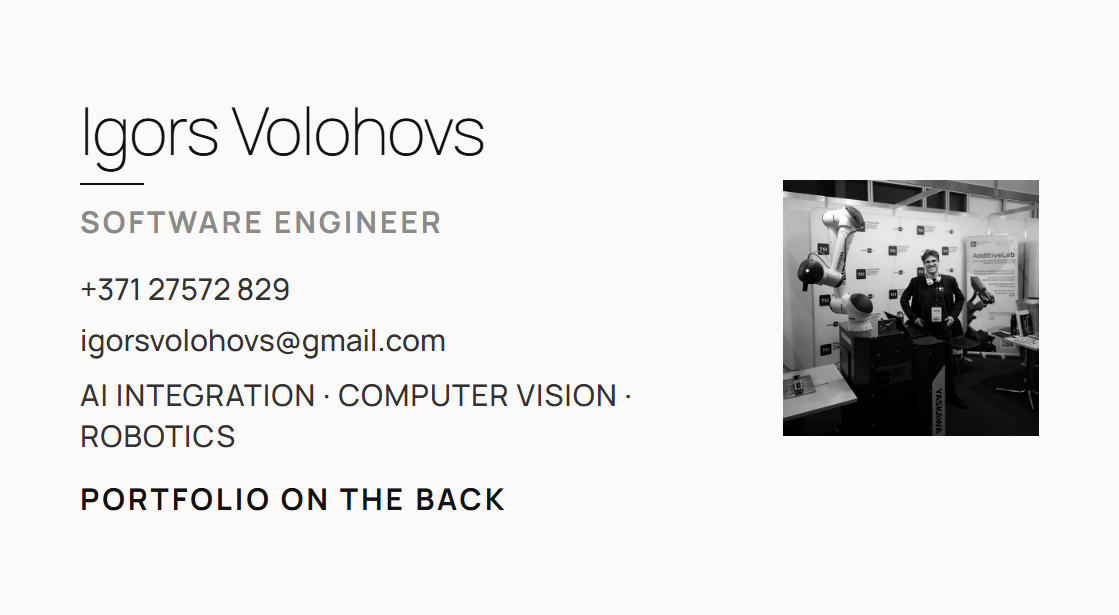
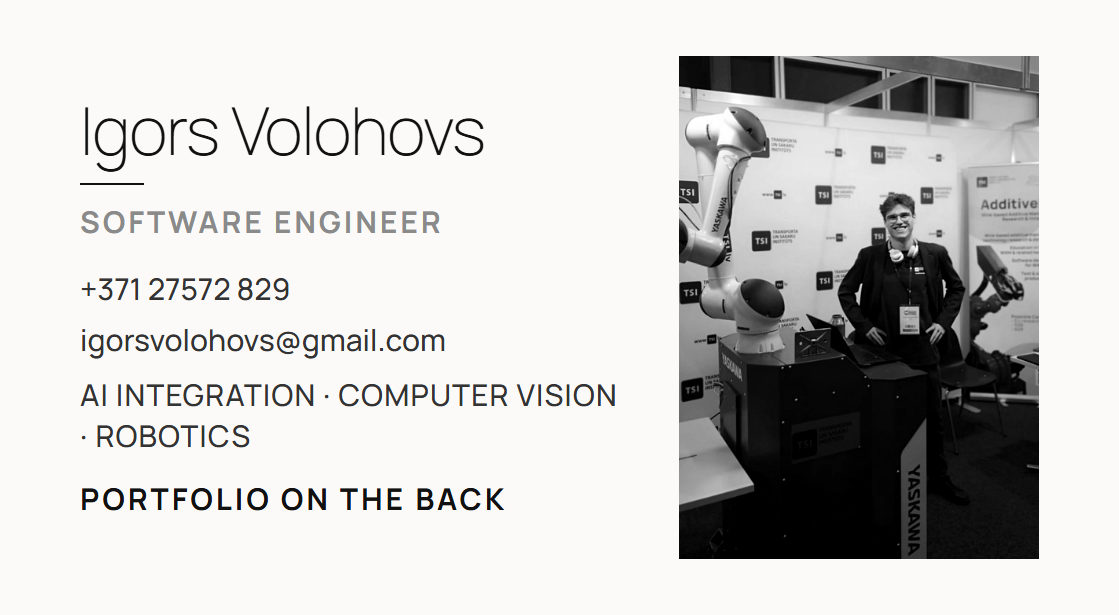
Enlarge the front-side photo across all 10 experiment variants
Igor's feedback: the photo read as a small avatar/icon (~220-256px) in
every variant instead of a full design element comparable to the panel
or QR block it replaced. Grew it meaningfully in each template - up to
340px, or a full-height 360x503 portrait crop in Minimal - which required
real layout adjustments rather than a single CSS bump: narrower text
columns (Minimal, Neon gradient), a smaller name to free vertical room
(Big type), tighter card padding (Robotics), and a narrower card gap
(QR centerpiece). All crops stay at or under the source photo's native
640x640 resolution, so nothing is upscaled beyond what it can support.

Two overlap bugs turned up during the enlargement and are fixed here too:
- Accent color: the tag row had no max-width, so growing the photo panel
  didn't shrink the text's wrap boundary - "Robotics" rendered half-hidden
  under the photo. Capped the tag row width so it wraps before reaching it.
- Blueprint: the bigger photo's "PHOTO-01" caption collided with the
  titleblock's "NOTES" header. Trimmed the photo slightly and raised it
  to restore clearance above and below.

Re-rendered all 10 fronts, visually confirmed no remaining text
overlap/clipping, and re-verified all 10 backs still decode to
https://igorsvolohovs.github.io/ (untouched by this change).

Changed region(s): [[0.6077, 0.0927, 0.9419, 0.9268], [0.0608, 0.6797, 0.2431, 0.7415]]

diff --git a/experiments/templates/template_07_accent_color.html b/experiments/templates/template_07_accent_color.html
@@ -40,19 +40,19 @@
     }
     .contacts { margin-top: 30px; position: relative; z-index: 2; }
     .contacts div { font-size: 30px; color: #333; margin-bottom: 9px; font-weight: 400; }
-    .tags { margin-top: 22px; display: flex; gap: 22px; position: relative; z-index: 2; flex-wrap: wrap; }
+    .tags { margin-top: 22px; display: flex; gap: 18px; position: relative; z-index: 2; flex-wrap: wrap; max-width: 600px; }
     .tags span { font-size: 30px; font-weight: 700; color: #ff4d1c; text-transform: uppercase; letter-spacing: 1px; }
     .cta { margin-top: 20px; font-size: 30px; font-weight: 700; letter-spacing: 1px; color: #111; text-transform: uppercase; position: relative; z-index: 2; }
     .photo-wrap {
         position: absolute;
-        right: 60px;
-        bottom: 54px;
+        right: 50px;
+        bottom: 44px;
         z-index: 3;
         background: #fff;
-        padding: 8px;
+        padding: 10px;
         border: 3px solid #111;
     }
-    .photo-wrap img { width: 220px; height: 220px; object-fit: cover; display: block; }
+    .photo-wrap img { width: 300px; height: 300px; object-fit: cover; display: block; }
 </style>
 </head>
 <body>

diff --git a/experiments/templates/template_09_robotics.html b/experiments/templates/template_09_robotics.html
@@ -13,7 +13,7 @@
         background: #081018;
         position: relative;
         overflow: hidden;
-        padding: 44px 64px;
+        padding: 34px 64px;
     }
     .circuit {
         position: absolute; inset: 0;
@@ -46,8 +46,8 @@
     .tag svg { width: 26px; height: 26px; flex: none; }
     .tag span { font-size: 30px; font-weight: 600; color: #cfe8e0; letter-spacing: 0.3px; }
     .photo-frame { position: relative; padding: 14px; }
-    .photo-frame img { width: 220px; height: 220px; object-fit: cover; display: block; }
-    .corner { position: absolute; width: 26px; height: 26px; border: 2px solid #39ffc7; }
+    .photo-frame img { width: 280px; height: 280px; object-fit: cover; display: block; }
+    .corner { position: absolute; width: 30px; height: 30px; border: 2px solid #39ffc7; }
     .c-tl { top: 0; left: 0; border-right: none; border-bottom: none; }
     .c-tr { top: 0; right: 0; border-left: none; border-bottom: none; }
     .c-bl { bottom: 0; left: 0; border-right: none; border-top: none; }

diff --git a/experiments/templates/template_10_blueprint.html b/experiments/templates/template_10_blueprint.html
@@ -56,13 +56,13 @@
     .photo-component {
         position: absolute;
         right: 50px;
-        top: 92px;
+        top: 84px;
         text-align: center;
         z-index: 5;
     }
-    .photo-component .frame { border: 1.5px solid #7fa4c9; padding: 10px; background: #0e2a47; }
-    .photo-component img { width: 220px; height: 220px; object-fit: cover; display: block; }
-    .photo-component .tag { margin-top: 8px; font-size: 30px; letter-spacing: 1px; color: #7fa4c9; }
+    .photo-component .frame { border: 1.5px solid #7fa4c9; padding: 8px; background: #0e2a47; }
+    .photo-component img { width: 250px; height: 250px; object-fit: cover; display: block; }
+    .photo-component .tag { margin-top: 6px; font-size: 30px; letter-spacing: 1px; color: #7fa4c9; }
 </style>
 </head>
 <body>

diff --git a/experiments/templates/template_08_corporate.html b/experiments/templates/template_08_corporate.html
@@ -55,8 +55,8 @@
         padding-left: 40px;
         border-left: 1px solid #e4e8ee;
     }
-    .right img { width: 220px; height: 220px; object-fit: cover; display: block; margin: 0 auto; border-radius: 4px; }
-    .right .cta { margin-top: 14px; font-size: 30px; letter-spacing: 0.5px; color: #8b93a1; max-width: 260px; line-height: 1.25; }
+    .right img { width: 300px; height: 300px; object-fit: cover; display: block; margin: 0 auto; border-radius: 4px; }
+    .right .cta { margin-top: 14px; font-size: 30px; letter-spacing: 0.5px; color: #8b93a1; max-width: 300px; line-height: 1.25; }
 </style>
 </head>
 <body>

diff --git a/experiments/templates/template_05_big_type.html b/experiments/templates/template_05_big_type.html
@@ -18,7 +18,7 @@
     .name {
         font-family: 'Archivo Black', Arial, sans-serif;
         padding: 22px 0 0 0;
-        font-size: 108px;
+        font-size: 96px;
         line-height: 0.88;
         color: #000;
         letter-spacing: -3px;
@@ -52,7 +52,7 @@
     .tags span:not(:last-child)::after { content: " /"; color: #ccc; }
     .cta { font-size: 30px; font-weight: 700; letter-spacing: 1px; color: #000; text-transform: uppercase; }
     .photo-box {
-        width: 220px; height: 220px;
+        width: 280px; height: 280px;
         border: 3px solid #000;
         padding: 6px;
         flex: none;

diff --git a/experiments/templates/template_06_qr_centerpiece.html b/experiments/templates/template_06_qr_centerpiece.html
@@ -15,22 +15,22 @@
         align-items: center;
         justify-content: center;
         gap: 72px;
-        padding: 0 90px;
+        padding: 0 70px;
     }
     .photo-anchor {
         position: relative;
         flex: 0 0 auto;
     }
     .photo-anchor img {
-        width: 300px;
-        height: 300px;
+        width: 340px;
+        height: 340px;
         object-fit: cover;
         border-radius: 50%;
         display: block;
     }
     .ring {
         position: absolute;
-        inset: -22px;
+        inset: -20px;
         border: 1.5px dashed #1c1c1c55;
         border-radius: 50%;
     }

diff --git a/experiments/templates/template_02_geometric.html b/experiments/templates/template_02_geometric.html
@@ -94,18 +94,18 @@
     }
     .photo-box {
         position: absolute;
-        right: 44px;
-        bottom: 48px;
+        right: 40px;
+        bottom: 40px;
         background: #ffffff;
-        padding: 10px;
-        border-radius: 8px;
+        padding: 12px;
+        border-radius: 10px;
         box-shadow: 0 14px 32px rgba(13,27,42,0.3);
     }
     .photo-box img {
-        width: 256px; height: 256px;
+        width: 340px; height: 340px;
         object-fit: cover;
         display: block;
-        border-radius: 3px;
+        border-radius: 4px;
     }
 </style>
 </head>

diff --git a/experiments/templates/template_04_neon_gradient.html b/experiments/templates/template_04_neon_gradient.html
@@ -30,7 +30,7 @@
         background-size: 38px 38px;
     }
     .content { position: relative; z-index: 2; display: flex; align-items: center; justify-content: space-between; }
-    .left { max-width: 560px; }
+    .left { max-width: 500px; }
     .name {
         font-weight: 800;
         font-size: 58px;
@@ -77,7 +77,7 @@
         flex: none;
     }
     .photo-wrap img {
-        width: 256px; height: 256px;
+        width: 340px; height: 340px;
         object-fit: cover;
         display: block;
         border-radius: 10px;

diff --git a/experiments/templates/template_01_minimal.html b/experiments/templates/template_01_minimal.html
@@ -19,7 +19,7 @@
         justify-content: space-between;
         gap: 40px;
     }
-    .left { max-width: 600px; }
+    .left { max-width: 540px; }
     .name {
         font-weight: 200;
         font-size: 66px;
@@ -65,8 +65,8 @@
     }
     .photo-wrap { flex: none; }
     .photo-wrap img {
-        width: 256px;
-        height: 256px;
+        width: 360px;
+        height: 503px;
         object-fit: cover;
         display: block;
         filter: grayscale(100%) contrast(1.05);

diff --git a/experiments/templates/template_03_terminal.html b/experiments/templates/template_03_terminal.html
@@ -68,8 +68,8 @@
         margin-left: 4px;
     }
     .avatar-panel img {
-        width: 220px;
-        height: 220px;
+        width: 300px;
+        height: 300px;
         object-fit: cover;
         border: 2px solid #3a3f4b;
         padding: 10px;

diff --git a/experiments/README.md b/experiments/README.md
@@ -31,6 +31,16 @@ photo was used as the primary (`experiments/assets/photo.png`) since it's
 already the public-facing one; `me.png` is the readily available fallback
 if a different photo is preferred.
 
+The photo started out sized like a small avatar (~220-256px) in most
+variants, which read as an afterthought rather than a real design element.
+It's now sized comparably to whatever panel/QR block used to occupy that
+spot per variant - up to 340px, or a full-height 360x503 portrait in
+Minimal - which needed real layout changes in several templates (narrower
+text columns, a smaller name in Big Type, tighter padding in Robotics),
+not just a bigger CSS number. Every crop stays at or below the source
+photo's native 640x640 resolution, so nothing is upscaled past what the
+source can support.
+
 Every QR code encodes `https://igorsvolohovs.github.io/` and was verified
 to decode correctly (OpenCV `QRCodeDetector`). A few early color choices
 (green-on-dark, white-on-dark) looked thematically nice but failed to
@@ -207,3 +217,14 @@ earlier QR-sizing pass):
 - **CTA double-prefix**: two templates (terminal, robotics) render their
   own `// ` / `> ` prefix in CSS *and* had it baked into the CTA string,
   producing a doubled prefix - fixed by keeping the prefix only in the CSS.
+- **Tags running behind the photo** (variant 7, after enlarging the photo):
+  the tag row had no `max-width`, so growing the absolutely-positioned
+  photo panel didn't shrink the text's available width - the flex-wrap
+  never triggered and "Robotics" rendered half-hidden under the photo.
+  Fixed by capping the tag row's width so it wraps before reaching the
+  photo's left edge.
+- **Photo/titleblock collision** (variant 10, after enlarging the photo):
+  a bigger photo pushed its "PHOTO-01" caption down into the drafting
+  title block's "NOTES" header. Fixed by trimming the photo a bit and
+  raising it slightly to restore clearance on both sides (the "SCALE 1:1"
+  header above, the title block below).
